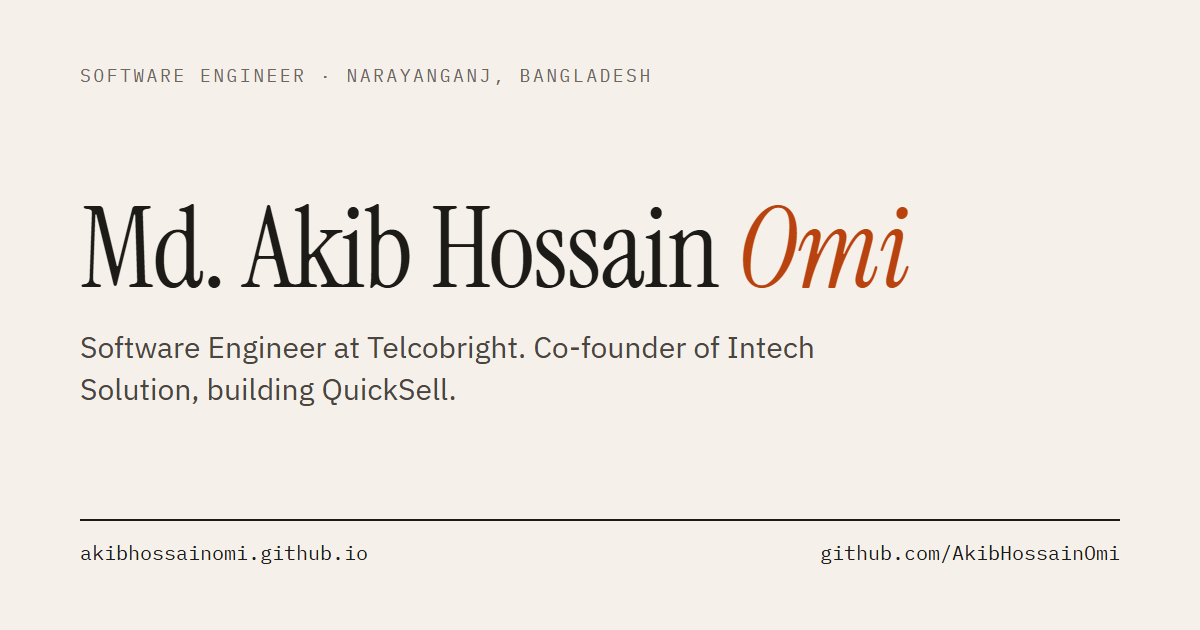
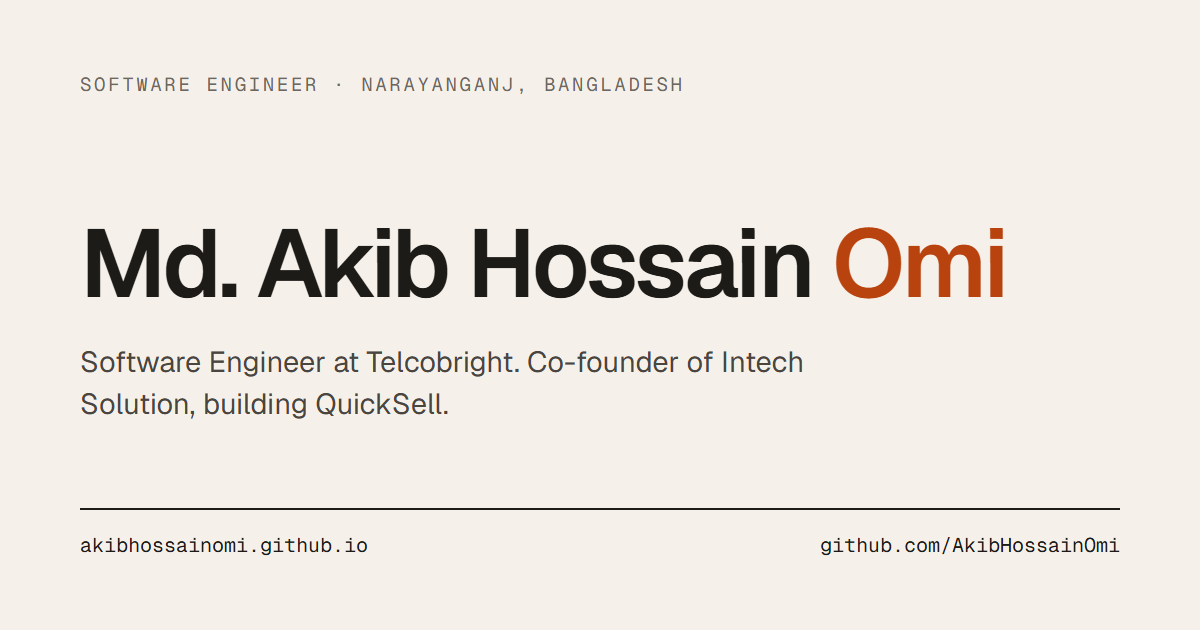
Switch fonts to Geist and Geist Mono

diff --git a/src/styles/global.css b/src/styles/global.css
@@ -1,10 +1,6 @@
 @import "tailwindcss";
-@import "@fontsource-variable/ibm-plex-sans/wght.css";
-@import "@fontsource-variable/ibm-plex-sans/wght-italic.css";
-@import "@fontsource/instrument-serif/400.css";
-@import "@fontsource/instrument-serif/400-italic.css";
-@import "@fontsource/ibm-plex-mono/400.css";
-@import "@fontsource/ibm-plex-mono/500.css";
+@import "@fontsource-variable/geist/wght.css";
+@import "@fontsource-variable/geist-mono/wght.css";
 
 /* Dark mode is driven by a `dark` class on <html> (set before paint in Base.astro). */
 @custom-variant dark (&:where(.dark, .dark *));
@@ -35,9 +31,8 @@
 }
 
 @theme inline {
-  --font-sans: "IBM Plex Sans Variable", ui-sans-serif, system-ui, sans-serif;
-  --font-serif: "Instrument Serif", ui-serif, Georgia, serif;
-  --font-mono: "IBM Plex Mono", ui-monospace, SFMono-Regular, Menlo, monospace;
+  --font-sans: "Geist Variable", ui-sans-serif, system-ui, sans-serif;
+  --font-mono: "Geist Mono Variable", ui-monospace, SFMono-Regular, Menlo, monospace;
 
   --color-paper: var(--paper);
   --color-paper-2: var(--paper-2);
